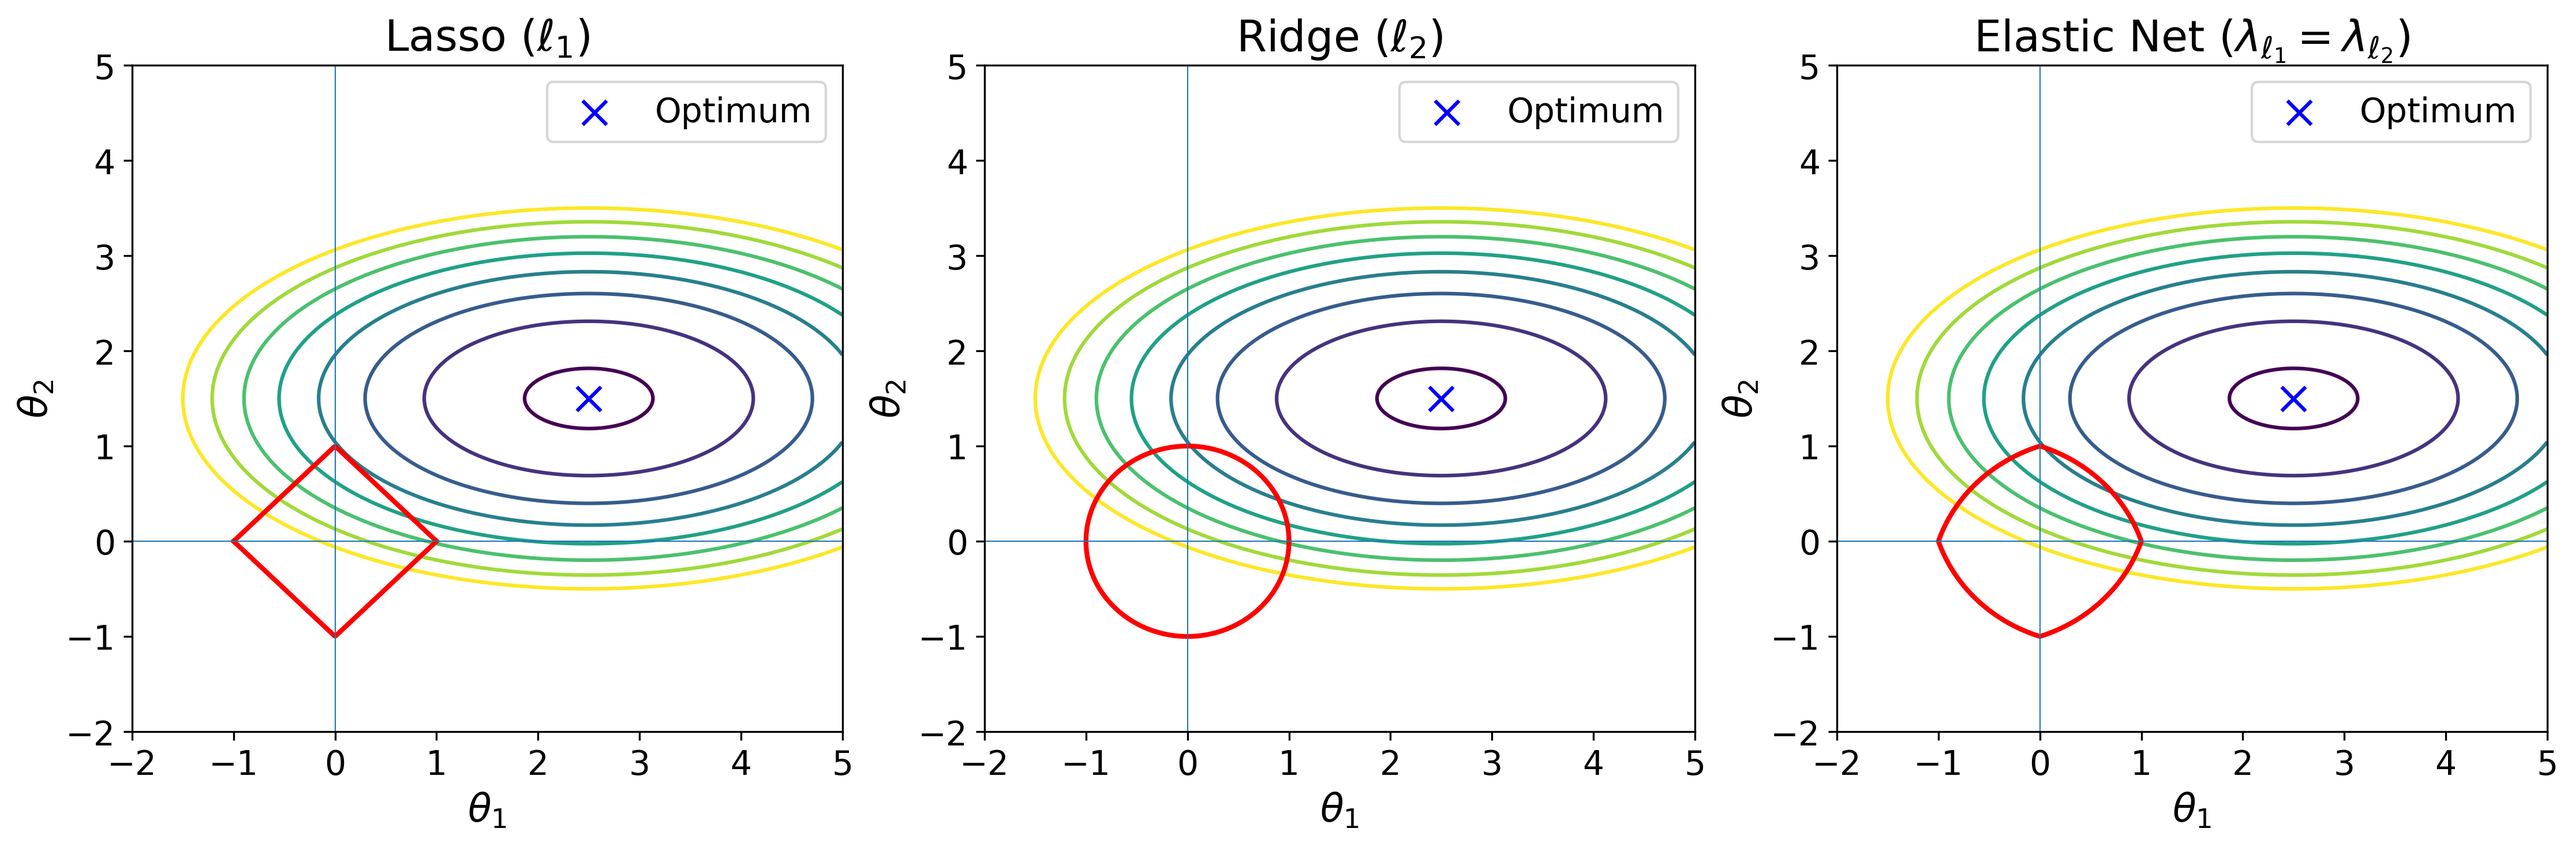
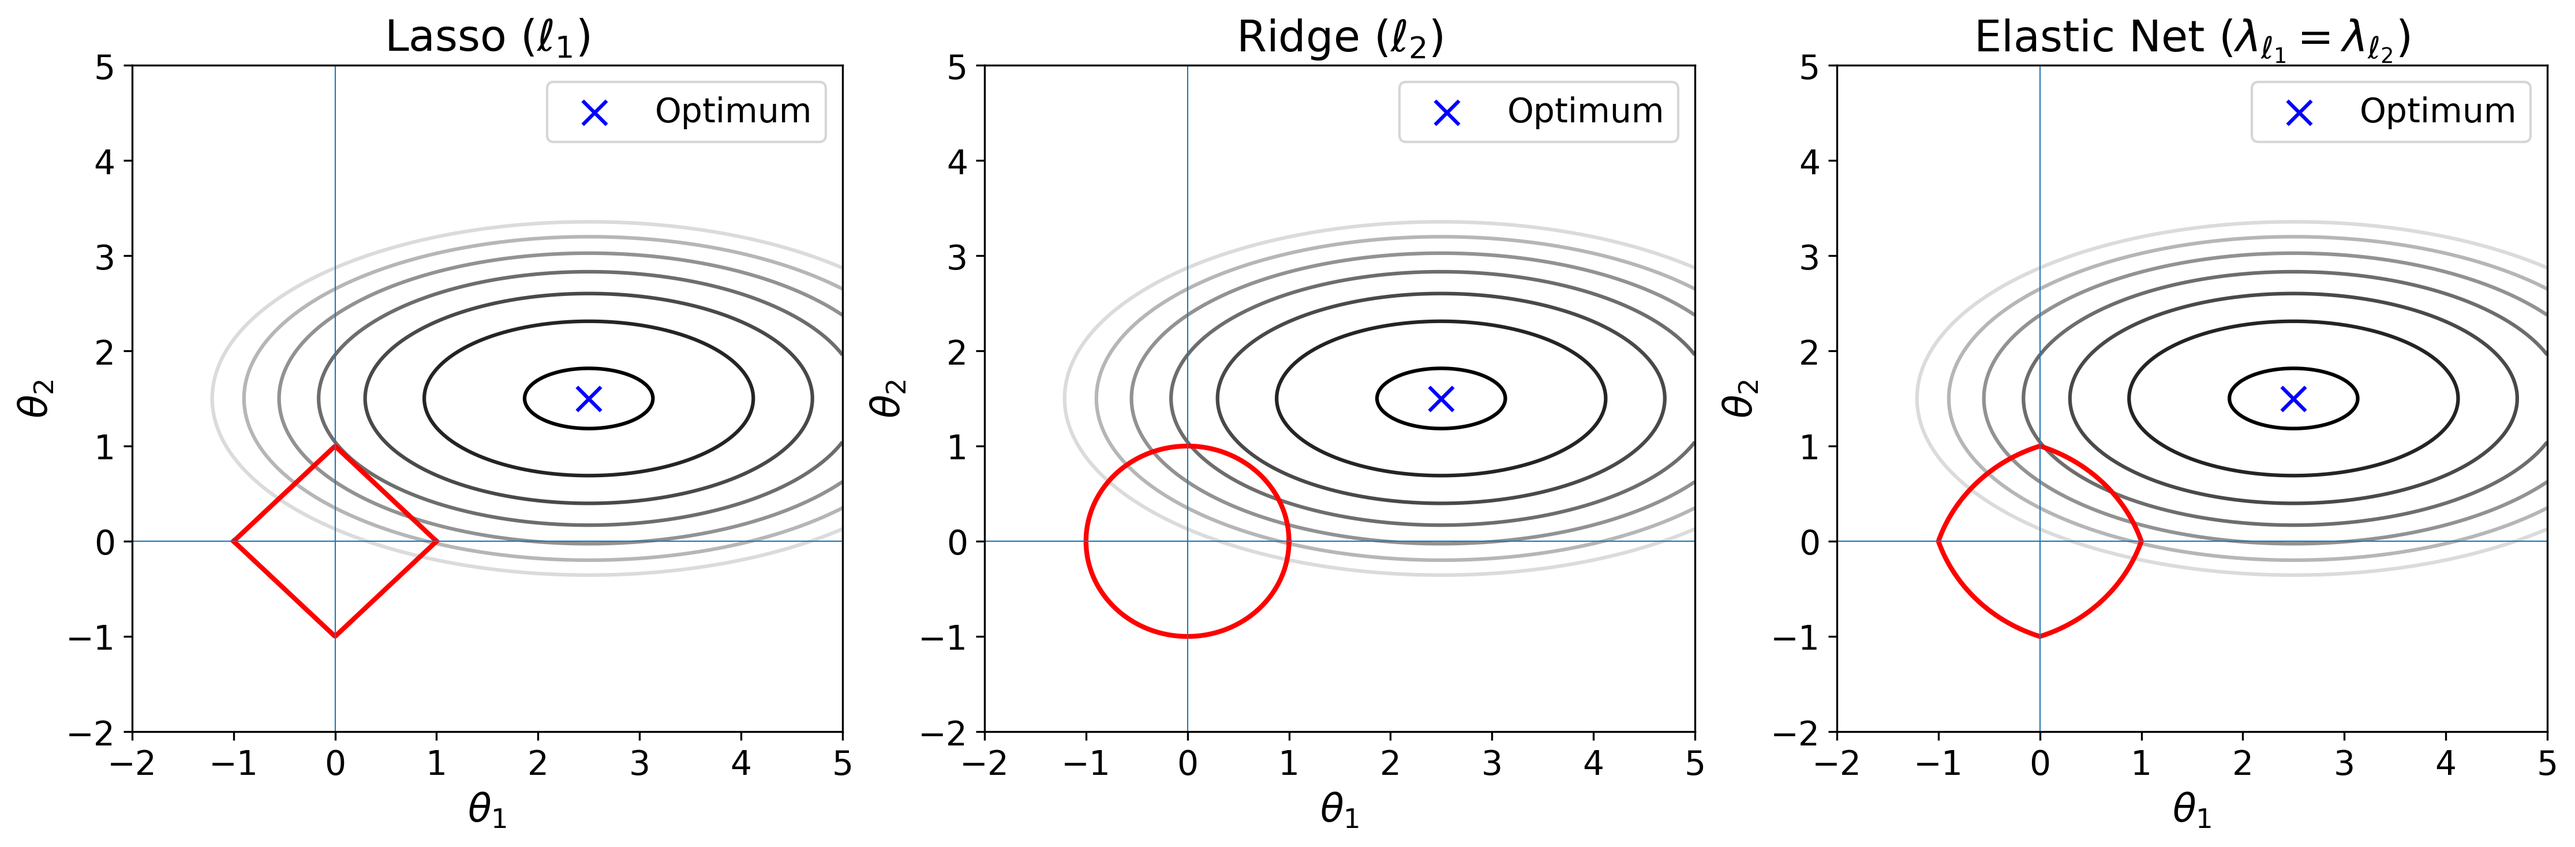
Made plot for showcasing early stopping and fixed contour plot file path

diff --git a/simulations/Regularizer_plots.py b/simulations/Regularizer_plots.py
@@ -27,7 +27,7 @@ penalty_en = gamma * (np.abs(T1) + np.abs(T2)) + (1 - gamma) * (T1**2 + T2**2)
 fig, axes = plt.subplots(1, 3)
 
 # Lasso (l1)
-axes[0].contour(T1, T2, J, levels=np.linspace(0.1, 4, 8))   # no clabel here
+axes[0].contour(T1, T2, J, levels=np.linspace(0.1, 4, 8), cmap='gray')
 x = np.linspace(-1, 1, 200)
 axes[0].plot(x, 1 - np.abs(x), 'r-', linewidth=2)
 axes[0].plot(x, -1 + np.abs(x), 'r-', linewidth=2)
@@ -40,7 +40,7 @@ axes[0].axhline(0, linewidth=0.5)
 axes[0].axvline(0, linewidth=0.5)
 
 # Ridge (l2)
-axes[1].contour(T1, T2, J, levels=np.linspace(0.1, 4, 8))   # no clabel here
+axes[1].contour(T1, T2, J, levels=np.linspace(0.1, 4, 8), cmap='gray')
 theta = np.linspace(0, 2 * np.pi, 200)
 axes[1].plot(np.cos(theta), np.sin(theta), 'r-', linewidth=2)
 axes[1].scatter(opt1, opt2, color='blue', marker='x', s=100, label='Optimum')
@@ -52,7 +52,7 @@ axes[1].axhline(0, linewidth=0.5)
 axes[1].axvline(0, linewidth=0.5)
 
 # Elastic Net
-axes[2].contour(T1, T2, J, levels=np.linspace(0.1, 4, 8))   # no clabel here either
+axes[2].contour(T1, T2, J, levels=np.linspace(0.1, 4, 8), cmap='gray')
 ce = axes[2].contour(T1, T2, penalty_en, levels=[1], colors='r', linewidths=2)
 axes[2].clabel(ce, fmt={1: r'\lambda_{\ell_1}\vert \vert \theta \vert \vert_1 + \lambda_{\ell_2}\vert \vert \theta \vert \vert_2^2 = 1'}, fontsize=12)
 axes[2].scatter(opt1, opt2, color='blue', marker='x', s=100, label='Optimum')

diff --git a/simulations/fig_earlystop.py b/simulations/fig_earlystop.py
@@ -101,7 +101,7 @@ ax2.axvline(best_idx, color='green', linestyle='--',
             label=f'Best Model at iter {best_idx}')
 ax2.axvline(stop_idx, color='red', linestyle=':',
             label=f'Patience reached at iter {stop_idx}')
-ax2.set_title('Training vs Validation Loss')
+ax2.set_title('Training & Validation Loss')
 ax2.set_xlabel('Iteration')
 ax2.set_ylabel('Loss')
 ax2.legend()
